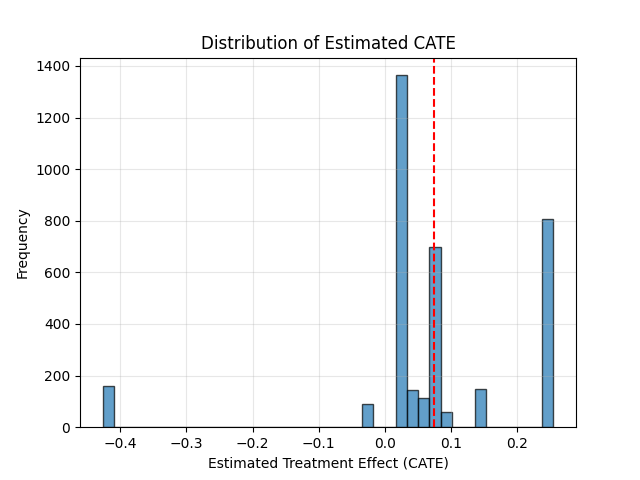
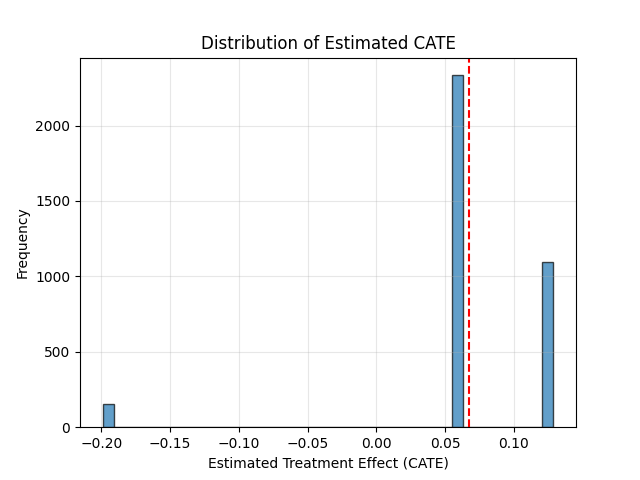
added plotting function, tried to fix some logic and data issues

diff --git a/src/plots.py b/src/plots.py
@@ -125,8 +125,16 @@ def plot_causal_tree(ct, filename=None, feature_names=None, figsize=(10, 6)):
             label = f"Leaf\nn={node.n_samples}\ntau={node.tau if node.tau is not None else 'nan'}"
             bbox = dict(boxstyle="round,pad=0.3", fc="#f8cecc", ec="k")
         else:
-            fname = feature_names[node.feature] if (feature_names is not None and node.feature is not None) else f"X[{node.feature}]"
-            label = f"{fname} <= {node.threshold:.3f}\nn={node.n_samples}"
+            # safe feature name lookup (guard against short/missing feature_names)
+            if feature_names is not None and node.feature is not None:
+                try:
+                    fname = feature_names[node.feature]
+                except Exception:
+                    fname = f"X[{node.feature}]"
+            else:
+                fname = f"X[{node.feature}]"
+            thr = f"{node.threshold:.3f}" if node.threshold is not None else "nan"
+            label = f"{fname} <= {thr}\nn={node.n_samples}"
             bbox = dict(boxstyle="round,pad=0.3", fc="#c6dbef", ec="k")
         ax.text(x, y, label, ha='center', va='center', bbox=bbox, fontsize=9)
 
@@ -146,46 +154,13 @@ def plot_causal_tree(ct, filename=None, feature_names=None, figsize=(10, 6)):
 
 def render_causal_tree(ct, filename_prefix='Plots/causal_tree', feature_names=None):
     """
-    Try to render and display the causal tree. Preference order:
-      1. Graphviz (display inline via IPython.display if available, then save PNG)
-      2. Write DOT file for manual rendering
-      3. Matplotlib fallback (display inline and save PNG)
+    Render and save the causal tree using Matplotlib fallback only (Graphviz support removed).
 
-    Returns the graphviz.Source object if displayed with Graphviz and rendering
-    to a file failed, or returns the path to the saved artifact (PNG or DOT).
+    Returns the path to the saved PNG file.
     """
     Path('Plots').mkdir(parents=True, exist_ok=True)
+    import matplotlib.pyplot as plt
 
-    # Try Graphviz first: get Source and display inline if possible
-    try:
-        src = ct.to_graphviz(feature_names=feature_names)
-        try:
-            from IPython.display import display
-            display(src)
-        except Exception:
-            # Not running in IPython or display not available
-            pass
-
-        # attempt to render to file (needs system graphviz)
-        try:
-            src.format = 'png'
-            out = src.render(filename_prefix, cleanup=True)
-            print(f"Causal tree rendered to '{out}' using Graphviz")
-            return out
-        except Exception as e_render:
-            print(f"Graphviz render failed (could not write file): {e_render}. The graph may have been displayed inline if running interactively.")
-            return src
-    except Exception as e:
-        print(f"Graphviz not available or failed: {e}")
-
-    # write dot file for manual rendering
-    dot = ct.to_dot(feature_names=feature_names)
-    dot_path = f"{filename_prefix}.dot"
-    with open(dot_path, 'w') as f:
-        f.write(dot)
-    print(f"Wrote DOT to '{dot_path}'. Attempting Matplotlib fallback and inline display.")
-
-    # Matplotlib fallback: create a figure, display inline, then save to file
     try:
         fig = plot_causal_tree(ct, filename=None, feature_names=feature_names)
         # display inline if possible
@@ -193,13 +168,14 @@ def render_causal_tree(ct, filename_prefix='Plots/causal_tree', feature_names=No
             from IPython.display import display
             display(fig)
         except Exception:
-            import matplotlib.pyplot as plt
             plt.show()
 
         png_path = f"{filename_prefix}_matplotlib.png"
         fig.savefig(png_path)
-        print(f"Matplotlib fallback rendered and saved to '{png_path}'")
+        plt.close(fig)
+        print(f"Causal tree rendered and saved to '{png_path}' using Matplotlib")
         return png_path
-    except Exception as e2:
-        print(f"Matplotlib fallback also failed: {e2}")
-        return dot_path
+    except Exception as e:
+        print(f"Failed to render causal tree with Matplotlib: {e}")
+        raise
+

diff --git a/src/doubleML.py b/src/doubleML.py
@@ -1,51 +1,78 @@
 ## Causal Models
 import numpy as np
-from sklearn.model_selection import KFold
-from sklearn.ensemble import RandomForestRegressor
+from sklearn.model_selection import StratifiedKFold
+from sklearn.ensemble import RandomForestRegressor, RandomForestClassifier
 from sklearn.linear_model import LogisticRegression
+from sklearn.base import clone
 import pandas as pd
 
-def dr_learner(X,y,w) -> np.array:
+def dr_learner(X, y, w, n_splits=3, clip=(0.05,0.95), mu_model=None, prop_model=None, final_model=None, eps=1e-6, random_state=0):
+    """
+    X: array (n_samples, n_features)
+    y: array (n_samples,)
+    w: binary treatment array (n_samples,)
+
+    Robust DR learner with:
+      - default propensity model = RandomForestClassifier
+      - denominator clamped to max(e*(1-e), eps) to avoid numeric blowups
+
+    returns: tau_hat array (n_samples,) and diagnostics if requested
+    """
+    X = np.asarray(X)
+    y = np.asarray(y)
+    w = np.asarray(w)
+    assert X.shape[0] == y.shape[0] == w.shape[0]
+    
     # get outcome, treatment and controls from data
     n = len(y)
-    n_split = 3
 
     mu0_all = np.zeros(n)
     mu1_all = np.zeros(n)
     e_all = np.zeros(n)
 
-    kf = KFold(n_splits=n_split, shuffle=True, random_state=0)
-    for train_idx, test_idx in kf.split(X):
+    # default propensity model: RandomForestClassifier unless user provided one
+    if prop_model is None:
+        base_prop = RandomForestClassifier(n_estimators=200, n_jobs=-1, random_state=random_state)
+    else:
+        base_prop = prop_model
+
+    kf = StratifiedKFold(n_splits=n_splits, shuffle=True, random_state=random_state)
+    for train_idx, test_idx in kf.split(X, w):
         X_tr, X_te = X[train_idx], X[test_idx]
         y_tr = y[train_idx]
         w_tr = w[train_idx]   
         # Strong RF models for nuisance functions
         mu0 = RandomForestRegressor(
-            n_estimators=200, max_depth=None, min_samples_leaf=5, random_state=0
+            n_estimators=200, n_jobs=-1, max_depth=None, min_samples_leaf=5, random_state=random_state
         )
         mu1 = RandomForestRegressor(
-            n_estimators=200, max_depth=None, min_samples_leaf=5, random_state=0
+            n_estimators=200, n_jobs=-1, max_depth=None, min_samples_leaf=5, random_state=random_state
         )
         mu0.fit(X_tr[w_tr == 0], y_tr[w_tr == 0])
         mu1.fit(X_tr[w_tr == 1], y_tr[w_tr == 1])
         mu0_all[test_idx] = mu0.predict(X_te)
         mu1_all[test_idx] = mu1.predict(X_te)
 
-        # Propensity
-        e_model = LogisticRegression(max_iter=500)
+        # Propensity: clone base_prop to get a fresh estimator per fold when needed
+        try:
+            e_model = clone(base_prop)
+        except Exception:
+            e_model = base_prop
         e_model.fit(X_tr, w_tr)
-        e_all[test_idx] = np.clip(e_model.predict_proba(X_te)[:, 1], 0.05, 0.95)
+        probs = e_model.predict_proba(X_te)[:, 1]
+        e_all[test_idx] = np.clip(probs, clip[0], clip[1])
 
     # Doubly robust pseudo-outcome (orthogonal score)
     mu_t = mu0_all * (1 - w) + mu1_all * w
-    phi = (mu1_all - mu0_all) + (w - e_all) * (y - mu_t) / (e_all * (1 - e_all))
+    denom = np.maximum(e_all * (1 - e_all), eps)
+    phi = (mu1_all - mu0_all) + (w - e_all) * (y - mu_t) / denom
     
     # Clip extreme values for numerical stability
     phi = np.clip(phi, -10, 10)
 
     # Final CATE model (rich RF)
     tau_model = RandomForestRegressor(
-        n_estimators=300, max_depth=None, min_samples_leaf=5, random_state=0
+        n_estimators=300, n_jobs=-1, max_depth=None, min_samples_leaf=5, random_state=random_state
     )
     tau_model.fit(X, phi)
     ol_tau_hat = tau_model.predict(X)

diff --git a/src/causalTree.py b/src/causalTree.py
@@ -1,11 +1,6 @@
 import numpy as np
 import pandas as pd
-try:
-    import graphviz
-    _HAS_GRAPHVIZ = True
-except Exception:
-    graphviz = None
-    _HAS_GRAPHVIZ = False
+# Note: Graphviz support removed — plotting uses Matplotlib in `src.plots.plot_causal_tree`.
 
 class Node:
     def __init__(self, depth, tau=None, feature=None, threshold=None, left=None, right=None, n_samples=0):
@@ -248,59 +243,6 @@ class CausalTree:
             })
         return pd.DataFrame(records)
 
-    def to_dot(self, feature_names=None):
-        """
-        Return a DOT format string representing the tree (Graphviz).
-        """
-        if self.root is None:
-            return "digraph G { }"
-
-        lines = ['digraph Tree {', 'node [shape=box, style="filled", fontsize=10, fontname="Helvetica"];']
-
-        def _rec(node, nid_counter=[0]):
-            nid = f"node{nid_counter[0]}"
-            nid_counter[0] += 1
-
-            if node.is_leaf:
-                tau_str = node.tau if node.tau is not None else 'nan'
-                label = f"Leaf\n n={node.n_samples}\n tau={tau_str}"
-                lines.append(f'{nid} [label="{label}", fillcolor="#f8cecc"];')
-                return nid
-            else:
-                fname = feature_names[node.feature] if (feature_names is not None and node.feature is not None) else f"X[{node.feature}]"
-                label = f"{fname} <= {node.threshold:.3f}\n n={node.n_samples}"
-                lines.append(f'{nid} [label="{label}", fillcolor="#c6dbef"];')
-                left = _rec(node.left, nid_counter)
-                right = _rec(node.right, nid_counter)
-                lines.append(f'{nid} -> {left} [label="yes"];')
-                lines.append(f'{nid} -> {right} [label="no"];')
-                return nid
-
-        _rec(self.root)
-        lines.append('}')
-        return "\n".join(lines)
-
-    def to_graphviz(self, feature_names=None):
-        """
-        Return a graphviz.Source object representing the tree.
-        Requires the Python 'graphviz' package (and Graphviz system binary when rendering).
-        """
-        dot = self.to_dot(feature_names=feature_names)
-        if not _HAS_GRAPHVIZ:
-            raise ImportError("graphviz is not available (pip install graphviz and ensure Graphviz is installed). Use to_dot() to get the DOT string.")
-        return graphviz.Source(dot)
-
-    def plot_tree(self, filename=None, feature_names=None, format='png', cleanup=True):
-        """
-        Render and save the tree to a file if filename is provided.
-        If no filename is provided, returns a graphviz.Source object (if graphviz is available).
-        """
-        dot = self.to_dot(feature_names=feature_names)
-        if not _HAS_GRAPHVIZ:
-            raise ImportError("graphviz is not available. Install the python package 'graphviz' and the system Graphviz binaries to render.")
-        src = graphviz.Source(dot)
-        if filename:
-            src.format = format
-            outpath = src.render(filename, cleanup=cleanup)
-            return outpath
-        return src
+    # Graphviz-related methods removed.
+    # Use `to_dataframe()` / `collect_nodes()` for programmatic inspection and
+    # use `src.plots.plot_causal_tree` for plotting with Matplotlib.

diff --git a/src/features.py b/src/features.py
@@ -1,7 +1,7 @@
 ## Create additional features in datasets
 import pandas as pd
 import numpy as np
-from src.config import ECON_LAG, WB_INDICATORS
+from src.config import ECON_LAG, WB_INDICATORS, START_DATE
 from src.utils import count_transitions, opec_dummy, weo_dummy
 
 ############################################################################
@@ -140,11 +140,28 @@ def add_curr_crash_dummy(df:pd.DataFrame) -> pd.DataFrame:
     return df
 
 
-# add year dummies
-def add_year_dummies(df:pd.DataFrame) -> pd.DataFrame:
-    # create dummies
-    year_dummies = pd.get_dummies(df['year'], prefix='year').astype(int)
-    # drop 1 dummy for base case
-    year_dummies = year_dummies.iloc[:,1:]
-    df = pd.concat([df,year_dummies], axis=1)
+# add year dummies (supports pooling into multi-year bins)
+def add_year_dummies(df:pd.DataFrame, bin_size:int=1) -> pd.DataFrame:
+    """
+    Add year dummies. If `bin_size` > 1, pool years into bins of width `bin_size` (e.g., 3)
+    and create dummies for the bins. Dummies are prefixed 'year_' and the first dummy is dropped.
+    """
+    if bin_size <= 1:
+        year_dummies = pd.get_dummies(df['year'], prefix='year').astype(int)
+        # drop 1 dummy for base case
+        year_dummies = year_dummies.iloc[:,1:]
+        df = pd.concat([df, year_dummies], axis=1)
+        return df
+
+    # bin years into multi-year bins anchored at START_DATE
+    min_year = START_DATE
+    bin_start = ((df['year'] - min_year) // bin_size) * bin_size + min_year
+    bin_label = bin_start.astype(str) + '-' + (bin_start + bin_size - 1).astype(str)
+    df['year_bin_label'] = bin_label
+    year_dummies = pd.get_dummies(df['year_bin_label'], prefix='year').astype(int)
+    # drop 1 dummy for base case (only if more than one bin)
+    if year_dummies.shape[1] > 1:
+        year_dummies = year_dummies.iloc[:,1:]
+    df = pd.concat([df, year_dummies], axis=1)
+    df.drop(columns=['year_bin_label'], inplace=True)
     return df

diff --git a/src/cleaning.py b/src/cleaning.py
@@ -147,7 +147,11 @@ def clean_main(df:pd.DataFrame,
         controls = controls + year_cols
 
     ids = ['year', 'ccode_cow', 'cname_imf']
-    df = df[ids + outcome + treatment + controls]
+    df = df[ids + [outcome, treatment] + controls]
+
+    # Remove problematic years that have no treated observations (e.g., 1975)
+    # This avoids structural non-overlap that causes extreme propensity estimates.
+    df = df[df['year'] != 1975]
 
     # Remove countries from rich regions if bool
     if remove_rich:

diff --git a/src/dataset.py b/src/dataset.py
@@ -44,7 +44,7 @@ def create_dataset():
 
         # Add additional cross-datasets features
         main = add_oil_export_dummy(main)
-        main = add_year_dummies(main)
+        main = add_year_dummies(main, bin_size=3)
         print('Cross-data features have been added')
 
         return main
